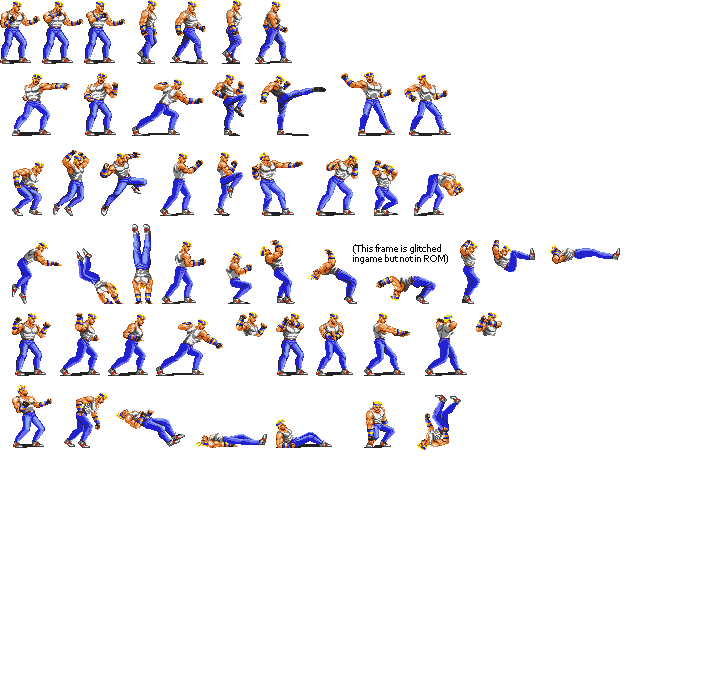
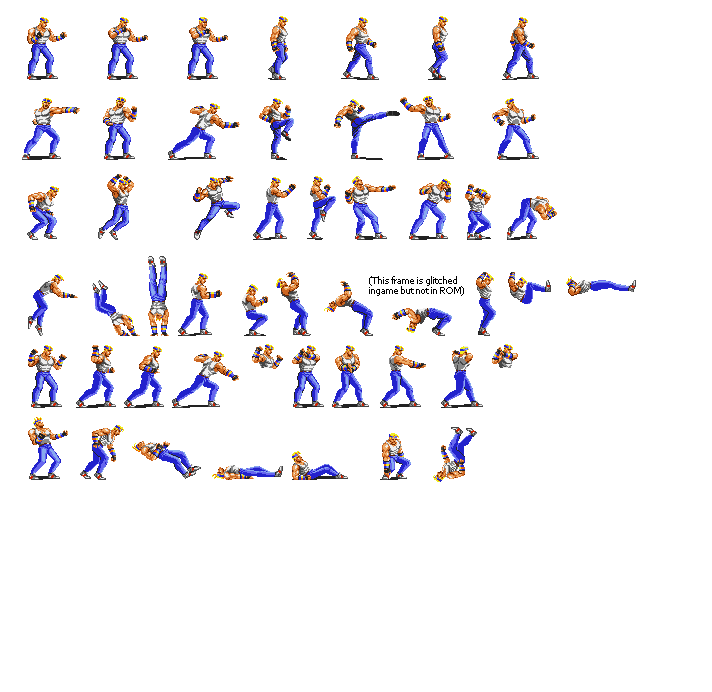
Assets: updated player spritesheet + coordinates in config file

Changed region(s): [[0.0, 0.0, 0.8961, 0.698], [0.6798, 0.0303, 0.7725, 0.2428]]

diff --git a/Player.cpp b/Player.cpp
@@ -15,6 +15,7 @@ bool Player::Update()
 	if (App->input->GetKey(SDL_SCANCODE_UP) == KEY_REPEAT)
 	{
 		position.y -= speed.y;
+		
 	}
 	else
 	{
@@ -51,7 +52,7 @@ bool Player::Update()
 	}
 	
 	//draw after computing the logic
-	App->renderer->Blit(graphics, position.x, position.y, &(current_animation->GetCurrentFrame()), 1.0F, !facing_right);
+	App->renderer->Blit(graphics, position.x + sprite_offset.x, position.y + sprite_offset.y, &(current_animation->GetCurrentFrame()), 1.0F, !facing_right);
 	return true;
 }
 
@@ -83,6 +84,11 @@ bool Player::LoadFromConfigFile(const char* file_path)
 
 	health = (int)json_object_dotget_number(root_object, "player.health");
 	
+	j_array = json_object_dotget_array(root_object, "player.sprite_offset");
+	sprite_offset.x = (int)json_array_get_number(j_array, 0);
+	sprite_offset.y = (int)json_array_get_number(j_array, 1);
+	json_array_clear(j_array);
+
 	idle.speed = (float)json_object_dotget_number(root_object, "player.idle.speed");
 	j_array = json_object_dotget_array(root_object, "player.idle.frames");
 	for (int i = 0; i < (int)json_array_get_count(j_array); ++i)

diff --git a/Entity.h b/Entity.h
@@ -71,6 +71,7 @@ protected:
 // Graphics and animations
 	SDL_Texture *graphics;
 	Animation *current_animation = nullptr;
+	iPoint sprite_offset = iPoint(0, 0);
 
 	Animation idle;
 	Animation walk;
